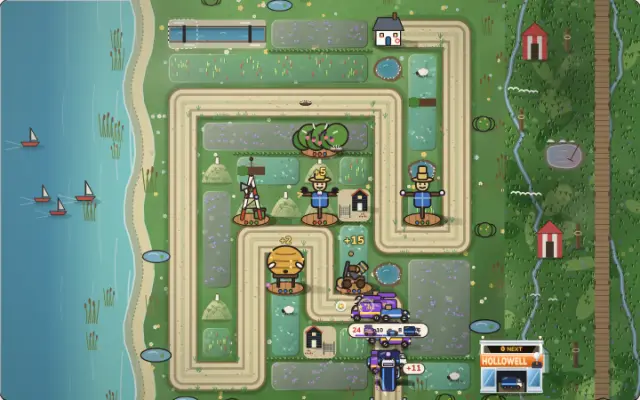
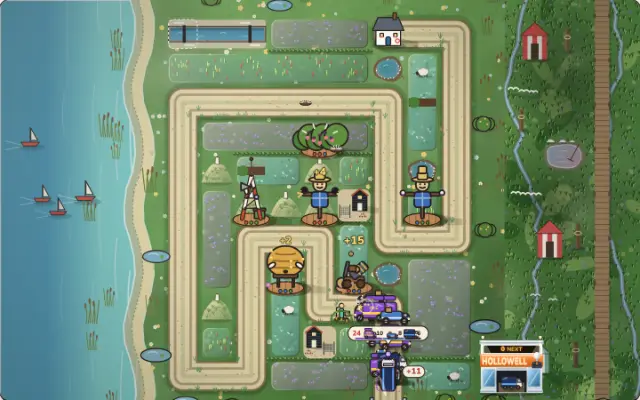
Hedgerow doorstep: after a clean round two neighbours cart a parcel up the lane in a handcart, and the win's harvest sweeps the step (parcels skid off under a gust of straw); in 3D the returned parcel slides off the pile up the path and the swept ones tumble away inside the same instanced mesh; the 
Claude-Session: https://claude.ai/code/session_01SimvMNGEGa9FBQ9KLT5s3B

Changed region(s): [[0.5, 0.72, 0.6875, 0.96], [0.5, 0.42, 0.5312, 0.45]]

diff --git a/games/hedgerow/src/render.ts b/games/hedgerow/src/render.ts
@@ -4,7 +4,7 @@
 // Projectiles and particles are fed from the engine's event list: the engine is hitscan, so the flight
 // times here are short and only for show.
 
-import { drawDoorstep, drawSaleBoard, type DoorstepView } from "./doorstepart";
+import { CART_SECONDS, drawCart, drawDoorstep, drawSaleBoard, drawSweep, SWEEP_SECONDS, type DoorstepView } from "./doorstepart";
 import { P, PROPERTIES, RUNGS, crackStage } from "./fleet";
 import { PLOT_STITCH, PLOT_STITCH_UNDER } from "./plotlook";
 import { kitFor } from "./fieldkit";
@@ -21,6 +21,8 @@ import {
   isRevealed,
   enemyPoint,
   headingAt,
+  pointAt,
+  pathLength,
   betweenRounds,
   waveSpawns,
   postMarker,
@@ -264,6 +266,12 @@ export class Renderer {
   doorstep: DoorstepView | null = null;
   /** Plan item 480: parcels in the air, from where each leak got through (cells), and their age in seconds. */
   private tossed: Array<{ x: number; y: number; age: number }> = [];
+  /** Plan item 480: handcarts heading up the lane with a parcel (their age in seconds), the returns seen so far, and
+   *  the win's sweep (the parcels it clears and its age). */
+  private carts: number[] = [];
+  private cartsSeen = 0;
+  private sweep: { n: number; age: number } | null = null;
+  private stepWas: DoorstepView | null = null;
   /** Plan item 59: the harvest's Cath walks the beds over the field, so the field's own Cath steps out. */
   harvesting = false;
   /** Plan item 143: the people and animals working the farm. */
@@ -707,6 +715,24 @@ export class Renderer {
     this.parts.push({ x, y, vx: 0, vy: -0.9, g: 0, age: 0, life: 1.1, size: 0.3, color, shape: "text", rot: 0, vr: 0, text, big });
   }
 
+  /** Plan item 480: the doorstep's animations running now (handcarts up the lane, the win's sweep), for tests. */
+  stepAnims(): { carts: number; sweep: boolean } {
+    return { carts: this.carts.length, sweep: !!this.sweep };
+  }
+
+  /** Plan item 480: starts a handcart for each new return and the sweep when the win clears the step. */
+  private watchStep(d: DoorstepView | null): void {
+    const returned = d?.returned ?? 0;
+    if (returned < this.cartsSeen) this.cartsSeen = returned;
+    while (this.cartsSeen < returned) {
+      this.cartsSeen++;
+      if (!this.reducedMotion) this.carts.push(0);
+    }
+    const was = this.stepWas;
+    if (d?.won && was && was.shown > 0 && d.shown === 0 && !this.reducedMotion) this.sweep = { n: was.shown, age: 0 };
+    this.stepWas = d ? { ...d } : null;
+  }
+
   private kick(amount: number): void {
     if (!this.reducedMotion) this.shake = Math.max(this.shake, amount);
   }
@@ -898,20 +924,43 @@ export class Renderer {
     // Sprites in depth order.
     const items: Array<{ y: number; draw: () => void }> = [];
     const end = level.path[level.path.length - 1]!;
+    const side = end[0] >= level.cols - 2 ? -1 : 1;
     items.push({
       y: end[1] + 0.84,
       draw: () => {
         drawFarmhouse(ctx, X(end[0] + 0.5), Y(end[1] + 0.5), s, t, game.goodwill / game.maxGoodwill, kitFor(level).house);
         // Plan item 480: Hollowell's parcels on the step, the newest still arcing in over 400 ms.
         const d = this.doorstep;
+        this.watchStep(d);
         for (const p of this.tossed) p.age += dt;
         this.tossed = this.tossed.filter((p) => p.age < 0.4).slice(-Math.max(0, d?.shown ?? 0));
         if (d && (d.shown || d.card)) {
           const flying = this.tossed.map((p) => ({ from: [X(p.x), Y(p.y)] as [number, number], p: p.age / 0.4 }));
-          drawDoorstep(ctx, d, X(end[0] + 0.5), Y(end[1] + 0.5), s, flying, end[0] >= level.cols - 2 ? -1 : 1);
+          drawDoorstep(ctx, d, X(end[0] + 0.5), Y(end[1] + 0.5), s, flying, side);
+        }
+        // Plan item 480: the win's harvest sweeps the step clear.
+        if (this.sweep) {
+          this.sweep.age += dt;
+          if (this.sweep.age >= SWEEP_SECONDS) this.sweep = null;
+          else drawSweep(ctx, this.sweep.n, X(end[0] + 0.5), Y(end[1] + 0.5), s, this.sweep.age / SWEEP_SECONDS, side);
         }
       },
     });
+    // Plan item 480: after a clean round two neighbours cart a parcel off the step and up the lane toward the depot.
+    if (this.carts.length) {
+      for (let k = 0; k < this.carts.length; k++) this.carts[k]! += dt;
+      this.carts = this.carts.filter((a) => a < CART_SECONDS);
+      const len = pathLength(level.path);
+      for (const age of this.carts) {
+        const p = age / CART_SECONDS;
+        const back = Math.min(len, 0.35 + p * 2.6);
+        const at = pointAt(level.path, len - back);
+        const ahead = pointAt(level.path, len - back - 0.3);
+        const dir = ahead.x < at.x - 0.01 ? -1 : ahead.x > at.x + 0.01 ? 1 : side;
+        const alpha = Math.min(1, age / 0.25) * Math.min(1, (CART_SECONDS - age) / 0.6);
+        items.push({ y: at.y + 0.3, draw: () => drawCart(ctx, X(at.x), Y(at.y + 0.3), s, age, dir, alpha) });
+      }
+    }
     if (this.doorstep?.sale) {
       const gate = level.path[0]!;
       items.push({ y: gate[1] + 0.5, draw: () => drawSaleBoard(ctx, X(gate[0] + 0.5), Y(gate[1] + 0.5), s) });

diff --git a/games/hedgerow/src/doorstepart.ts b/games/hedgerow/src/doorstepart.ts
@@ -63,6 +63,125 @@ export interface DoorstepView {
   extra: number;
   card: boolean;
   sale: boolean;
+  /** Parcels the neighbours have carted back this level: each rise sends a handcart up the lane. */
+  returned?: number;
+  /** The level is won (its harvest sweeps the step). */
+  won?: boolean;
+}
+
+/** How long the neighbours' handcart takes up the lane, and the win's sweep (seconds). */
+export const CART_SECONDS = 3.2;
+export const SWEEP_SECONDS = 0.9;
+
+const SMOCKS = ["#5f7f4a", "#b5763a"];
+
+/** One neighbour, walking: a smock, a cap, a round face, legs scissoring with `step`. Feet at (x, y). */
+function drawNeighbour(ctx: C, x: number, y: number, s: number, step: number, smock: string, lean: number): void {
+  const h = s * 0.42;
+  ctx.save();
+  ctx.translate(x, y);
+  ctx.rotate(lean);
+  ctx.strokeStyle = INK;
+  ctx.lineWidth = Math.max(1, s * 0.014);
+  ctx.lineCap = "round";
+  const swing = Math.sin(step) * s * 0.05;
+  // trousers: two thick legs scissoring, outlined, with boots
+  for (const sw of [-swing, swing]) {
+    ctx.lineWidth = Math.max(2, s * 0.05);
+    ctx.strokeStyle = INK;
+    ctx.beginPath();
+    ctx.moveTo(sw * 0.2, -h * 0.4);
+    ctx.lineTo(sw, -s * 0.012);
+    ctx.stroke();
+    ctx.lineWidth = Math.max(1, s * 0.032);
+    ctx.strokeStyle = "#4a5266";
+    ctx.stroke();
+  }
+  ctx.strokeStyle = INK;
+  ctx.lineWidth = Math.max(1, s * 0.014);
+  ctx.fillStyle = smock;
+  ctx.beginPath();
+  ctx.moveTo(-s * 0.06, -h * 0.35);
+  ctx.lineTo(s * 0.06, -h * 0.35);
+  ctx.lineTo(s * 0.045, -h * 0.78);
+  ctx.lineTo(-s * 0.045, -h * 0.78);
+  ctx.closePath();
+  ctx.fill();
+  ctx.stroke();
+  ctx.fillStyle = "#e9c3a0";
+  ctx.beginPath();
+  ctx.arc(0, -h * 0.9, s * 0.045, 0, Math.PI * 2);
+  ctx.fill();
+  ctx.stroke();
+  ctx.fillStyle = INK;
+  ctx.fillRect(-s * 0.05, -h * 0.98 - s * 0.03, s * 0.1, s * 0.025);
+  ctx.restore();
+}
+
+/**
+ * The neighbours carting one of Hollowell's parcels back: a wooden handcart with the parcel aboard, one neighbour at
+ * the shafts, one pushing behind. (x, y) is the cart's foot, `dir` the way it faces (1 right, -1 left), `t` seconds.
+ */
+export function drawCart(ctx: C, x: number, y: number, s0: number, t: number, dir: 1 | -1, alpha = 1): void {
+  // drawn a size up from the step's parcels, so the neighbours stand as tall as the farm's own folk
+  const s = s0 * 1.6;
+  ctx.save();
+  ctx.globalAlpha *= alpha;
+  const step = t * 9;
+  drawNeighbour(ctx, x + dir * s * 0.32, y, s, step, SMOCKS[0]!, dir * 0.12);
+  drawNeighbour(ctx, x - dir * s * 0.3, y, s, step + Math.PI, SMOCKS[1]!, dir * 0.18);
+  ctx.strokeStyle = INK;
+  ctx.lineWidth = Math.max(1, s * 0.014);
+  // the shafts, the bed and a wheel
+  ctx.beginPath();
+  ctx.moveTo(x + dir * s * 0.12, y - s * 0.11);
+  ctx.lineTo(x + dir * s * 0.3, y - s * 0.17);
+  ctx.stroke();
+  ctx.fillStyle = "#8a5a32";
+  ctx.fillRect(x - s * 0.15, y - s * 0.14, s * 0.3, s * 0.05);
+  ctx.strokeRect(x - s * 0.15, y - s * 0.14, s * 0.3, s * 0.05);
+  ctx.fillStyle = "#6b4a2b";
+  ctx.beginPath();
+  ctx.arc(x, y - s * 0.055, s * 0.055, 0, Math.PI * 2);
+  ctx.fill();
+  ctx.stroke();
+  ctx.beginPath();
+  const a = t * 6 * dir;
+  ctx.moveTo(x + Math.cos(a) * s * 0.05, y - s * 0.055 + Math.sin(a) * s * 0.05);
+  ctx.lineTo(x - Math.cos(a) * s * 0.05, y - s * 0.055 - Math.sin(a) * s * 0.05);
+  ctx.stroke();
+  drawParcel(ctx, x, y - s * 0.135, s0 * 1.05, dir * -0.05);
+  ctx.restore();
+}
+
+/**
+ * The win's harvest sweeping the step: the parcels that were there skid off away from the door, tumble and fade,
+ * chased by a gust of straw. `p` runs 0 to 1 over SWEEP_SECONDS.
+ */
+export function drawSweep(ctx: C, n: number, x: number, y: number, s: number, p: number, side: 1 | -1 = 1): void {
+  const base = y + s * 0.34;
+  const e = 1 - (1 - p) * (1 - p);
+  ctx.save();
+  for (let k = 0; k < Math.min(n, DOORSTEP_SHOWN); k++) {
+    const [px, py] = parcelSlot(k, x, base, s, side);
+    const kick = 0.6 + ((k * 53) % 5) * 0.18;
+    ctx.globalAlpha = Math.max(0, 1 - p * 1.1);
+    const hop = Math.sin(Math.PI * Math.min(1, p * 1.6)) * s * 0.18 * kick;
+    drawParcel(ctx, px + side * e * s * 1.1 * kick, py + e * s * 0.12 - hop, s, side * e * 3 * kick);
+  }
+  // the gust: straw strokes sweeping out from the door
+  ctx.globalAlpha = Math.max(0, Math.sin(Math.PI * p)) * 0.9;
+  ctx.strokeStyle = "#e3c46a";
+  ctx.lineWidth = Math.max(1, s * 0.02);
+  ctx.lineCap = "round";
+  for (let k = 0; k < 7; k++) {
+    const r = s * (0.25 + k * 0.1) + e * s * 0.5;
+    const a0 = -0.5 + k * 0.17;
+    ctx.beginPath();
+    ctx.arc(x, base, r, side === 1 ? a0 : Math.PI - a0 - 0.5, side === 1 ? a0 + 0.5 : Math.PI - a0);
+    ctx.stroke();
+  }
+  ctx.restore();
 }
 
 /** The pile and the card by the farmhouse at (x, y) (the house's cell centre), at cell size s. */

diff --git a/games/hedgerow/src/render3d/doorstep.ts b/games/hedgerow/src/render3d/doorstep.ts
@@ -14,6 +14,9 @@ const PH = 0.105;
 const PD = 0.12;
 /** How long a parcel's arc from the lane takes (s). */
 const ARC_S = 0.4;
+/** A parcel carted back slides off the step and up the lane over this long (s); the win's sweep takes this long. */
+const CART_S = 1.4;
+const SWEEP_S = 0.9;
 
 /** The pile's slots in the farmhouse's frame: four on the ground, three on them, one on top, right of the door
  *  (`side` -1 piles them left, for a house at the field's right edge). The door is at x 0, z 0.285. */
@@ -138,6 +141,8 @@ export class Doorstep3D {
   private shown = 0;
   /** The newest parcel's arc: seconds since it was thrown (ARC_S or more: landed). */
   private arc = ARC_S;
+  /** Parcels leaving the step (a clean round's cart-back or the win's sweep): the pile they leave from, its age (s). */
+  private leaving: { from: number; age: number; sweep: boolean } | null = null;
   private side: 1 | -1 = 1;
   private readonly m = new THREE.Matrix4();
   private readonly q = new THREE.Quaternion();
@@ -148,7 +153,8 @@ export class Doorstep3D {
     const mat = new THREE.MeshStandardMaterial({ map: parcelTexture(), roughness: 0.22, metalness: 0 });
     this.parcels = new THREE.InstancedMesh(new THREE.BoxGeometry(PW, PH, PD), mat, DOORSTEP_SHOWN);
     this.parcels.count = 0;
-    this.parcels.castShadow = true;
+    // No shadows: the pile and the board casting doubled their cost on a phone (+7 draw calls, measured with scripts/hedgerow-drawcalls.mjs PARCELS=9), over the item's +3; the pile sits in the house's own shadow.
+    this.parcels.castShadow = false;
     this.parcels.frustumCulled = false;
     const cv = document.createElement("canvas");
     cv.width = 128;
@@ -161,7 +167,7 @@ export class Doorstep3D {
     this.card.rotation.z = -0.08;
     this.card.visible = false;
     this.board = new THREE.Mesh(boardGeometry(), new THREE.MeshStandardMaterial({ map: boardTexture(), roughness: 0.6 }));
-    this.board.castShadow = true;
+    this.board.castShadow = false;
     this.board.visible = false;
   }
 
@@ -183,7 +189,13 @@ export class Doorstep3D {
     if (shown !== this.shown) {
       // A new parcel arcs in; a cart-back or a sweep just takes them away.
       this.arc = shown > this.shown && this.shown >= 0 && !this.reducedMotion ? 0 : ARC_S;
+      // Fewer: the neighbours cart the top one up the lane, or the win's harvest sweeps the lot off the step.
+      this.leaving = shown < this.shown && this.shown > 0 && !this.reducedMotion ? { from: this.shown, age: 0, sweep: !!view?.won } : null;
       this.shown = shown;
+      this.layOut(1);
+    } else if (this.leaving) {
+      this.leaving.age += dt;
+      if (this.leaving.age >= (this.leaving.sweep ? SWEEP_S : CART_S)) this.leaving = null;
       this.layOut(1);
     } else if (this.arc < ARC_S) {
       this.arc = Math.min(ARC_S, this.arc + dt);
@@ -203,11 +215,26 @@ export class Doorstep3D {
 
   /** Places the pile; the newest parcel is `p` (0-1) along its arc from the lane in front of the door. */
   private layOut(p: number): void {
-    this.parcels.count = this.shown;
-    for (let k = 0; k < this.shown; k++) {
+    const go = this.leaving;
+    this.parcels.count = go ? Math.max(this.shown, go.from) : this.shown;
+    for (let k = 0; k < this.parcels.count; k++) {
       const to = parcelSlot3d(k, this.side);
       let tilt = ((k * 37) % 7) * 0.05 - 0.15;
-      if (k === this.shown - 1 && p < 1) {
+      this.s.setScalar(1);
+      if (go && k >= this.shown) {
+        const q = Math.min(1, go.age / (go.sweep ? SWEEP_S : CART_S));
+        const e = 1 - (1 - q) * (1 - q);
+        if (go.sweep) {
+          // skidding off away from the door, hopping, tumbling, shrinking away
+          const kick = 0.7 + ((k * 53) % 5) * 0.15;
+          this.p.set(to.x + this.side * e * 0.9 * kick, to.y + Math.sin(Math.PI * Math.min(1, q * 1.6)) * 0.18 * kick, to.z + e * 0.25);
+          tilt += this.side * e * 3 * kick;
+        } else {
+          // lifted off the pile, then out along the path in front of the door and away
+          this.p.set(to.x * (1 - e), to.y + Math.sin(Math.PI * Math.min(1, q * 2)) * 0.12, to.z + e * 1.4);
+        }
+        this.s.setScalar(Math.max(0.001, 1 - q * q));
+      } else if (k === this.shown - 1 && p < 1) {
         // From the lane, about a cell out in front of the door, over a 0.35-high arc.
         const e = 1 - (1 - p) * (1 - p);
         this.p.set(to.x * e, to.y + (1 - e) * 0.25 + Math.sin(p * Math.PI) * 0.35, to.z + (1 - e) * 0.6);
@@ -217,6 +244,7 @@ export class Doorstep3D {
       this.m.compose(this.p, this.q, this.s);
       this.parcels.setMatrixAt(k, this.m);
     }
+    this.s.setScalar(1);
     this.parcels.instanceMatrix.needsUpdate = true;
   }
 

diff --git a/e2e-site/hedgerow-doorstep.spec.ts b/e2e-site/hedgerow-doorstep.spec.ts
@@ -34,3 +34,31 @@ test('leaks pile parcels on the farmhouse step; the sale board goes up under a q
   })
   await expect(stage).toHaveAttribute('data-saleboard', '')
 })
+
+// Plan item 480: a clean round's return sends two neighbours up the lane with a handcart; the win sweeps the step;
+// neither plays under reduced motion (the parcel simply goes).
+type HA = { game(): G; leakDoorstep(n: number): number; cartDoorstep(): number; doorstepAnims(): { carts: number; sweep: boolean } | null }
+for (const reduce of [false, true]) {
+  test(`the neighbours cart a parcel back and the win sweeps the step${reduce ? ' (reduced motion: no animation)' : ''}`, async ({ page }) => {
+    test.setTimeout(120_000)
+    if (reduce) await page.emulateMedia({ reducedMotion: 'reduce' })
+    const stars = Object.fromEntries(Array.from({ length: 20 }, (_, i) => [String(i + 1), 3]))
+    const tips = { build: true, hero: true, early: true, pie: true, spec: true, neighbours: true, rally: true }
+    await page.goto('/hedgerow/?sandbox=1&2d')
+    await page.evaluate(([s, t]) => localStorage.setItem('hedgerow:v1', JSON.stringify({ version: 3, stars: s, seenBefore: { 3: true }, tips: t })), [stars, tips])
+    await page.goto('/hedgerow/?sandbox=1&2d&level=3')
+    await page.waitForFunction(() => !!(window as unknown as { hedgerow?: HA }).hedgerow?.game(), null, { timeout: 60_000 })
+    const stage = page.locator('#stage')
+    await page.evaluate(() => (window as unknown as { hedgerow: HA }).hedgerow.leakDoorstep(4))
+    await expect(stage).toHaveAttribute('data-doorstep', '4')
+    await page.evaluate(() => (window as unknown as { hedgerow: HA }).hedgerow.cartDoorstep())
+    await expect(stage).toHaveAttribute('data-doorstep', '3')
+    const anims = () => page.evaluate(() => (window as unknown as { hedgerow: HA }).hedgerow.doorstepAnims())
+    if (reduce) expect((await anims())!.carts).toBe(0)
+    else await expect.poll(async () => (await anims())!.carts, { timeout: 5_000 }).toBe(1)
+    await page.evaluate(() => { (window as unknown as { hedgerow: HA }).hedgerow.game().phase = 'won' })
+    await expect(stage).toHaveAttribute('data-doorstep', '0')
+    if (reduce) expect((await anims())!.sweep).toBe(false)
+    else await expect.poll(async () => (await anims())!.sweep, { timeout: 5_000 }).toBe(true)
+  })
+}

diff --git a/games/hedgerow/src/main.ts b/games/hedgerow/src/main.ts
@@ -443,7 +443,7 @@ function syncDoorstep(g: Game): void {
   const n = String(doorstep.parcels);
   if (ui.stage.dataset.doorstep !== n) ui.stage.dataset.doorstep = n;
   const sale = saleBoard(g.goodwill, g.maxGoodwill);
-  if (renderer && "doorstep" in renderer) (renderer as { doorstep: unknown }).doorstep = { ...doorstepShown(doorstep), card: doorstep.card, sale };
+  if (renderer && "doorstep" in renderer) (renderer as { doorstep: unknown }).doorstep = { ...doorstepShown(doorstep), card: doorstep.card, sale, returned: doorstep.returned, won: g.phase === "won" };
   if (sale !== ("saleboard" in ui.stage.dataset)) {
     if (sale) ui.stage.dataset.saleboard = "";
     else delete ui.stage.dataset.saleboard;
@@ -822,6 +822,14 @@ if (SANDBOX)
     // Plan item 480: lay n parcels on the farmhouse step at once (shots and tests), as n leaks would.
     leakDoorstep: (n: number) => {
       for (let k = 0; k < n; k++) doorstepLeak(doorstep);
+      return doorstep.parcels;
+    },
+    // Plan item 480: the 2D doorstep's animations running now (null in 3D).
+    doorstepAnims: () => (renderer as { stepAnims?: () => unknown } | null)?.stepAnims?.() ?? null,
+    // Plan item 480: a clean round's return (the neighbours cart one parcel up the lane), as a cleared round would.
+    cartDoorstep: () => {
+      doorstep.leakedThisRound = false;
+      doorstepCleared(doorstep);
       return doorstep.parcels;
     },
     // Plan item 132: the 3D gate signs' boards (canvas px, like gateQueue); empty in 2D.

diff --git a/docs/plan/two-week-plan.md b/docs/plan/two-week-plan.md
@@ -4480,7 +4480,7 @@ Progress (lane B, 2026-11-17 18:50, slice 1): the last round is called as a show
 - **Accept:** `#stage[data-showdown]` within 150 ms of the last round's Go (sandbox e2e via `sendWave`, P and D, 2D and 3D); the slow window 600-800 ms by frame timestamps, `.harvest` within 400 ms after; a unit test that a level's engine tick count is unchanged; the reduced-motion path tested; level tests pass; shots of l21 and l34 at P and D.
 - **Size:** 2
 
-## 480. [ ] Hedgerow: Goodwill on the farmhouse doorstep *(lane A, in progress)*
+## 480. [x] Hedgerow: Goodwill on the farmhouse doorstep *(done 2026-11-17 22:15 lane A: slice 4 adds the neighbours' handcart up the lane and the win's sweep in 2D, the returned parcel sliding off and the swept pile skidding away in 3D's instanced pile; no shadows on the pile or board (with them +7 calls at P); `hedgerow-drawcalls` PARCELS=9 on level 3: +2 at P, +3 at D; e2e cart/sweep and reduced motion at P and D)*
 
 Progress (lane A, 2026-11-17 19:35): slice 1 (1ed564a2): `doorstep.ts` (pure: a parcel per leak, a clean round carts one back with Cath's line, the win sweeps the step, `saleBoard` under 25%); `#stage[data-doorstep=N]` and `[data-saleboard]`; `tests/hedgerow-doorstep.test.ts` (incl. a real undefended game: parcels = leaks - returns), `e2e-site/hedgerow-doorstep.spec.ts` (P, D). Slice 3 (lane A 20:25, e2e93425): 3D in `render3d/doorstep.ts`: the pile in the farmhouse's own frame on its camera side (1.8x the first try, which hid behind the house), the arc, the card with '+N', the ACQUIRED board planted on the field's first corner (the gate often stands past the frame) and leaning to a phone's steep lens; three meshes (instanced pile, card, board and post as one geometry), none drawn with an empty step; sandbox `leakDoorstep(n)`; shots `scripts/hedgerow-480-shots.mjs` (scratchpad door3d, level 3, 0/3/9 parcels and the board, 2D and 3D, P and D). Left: the neighbours' cart animation, the win's sweep animation, a measured `hedgerow-drawcalls` run with 9 parcels. Slice 2 (ed05e303): 2D in `doorstepart.ts`: glossy taped parcels piled 4-3-1 by the door ('+N' past 8; to the door's left when the house is at the field's right edge, else it ran off the phone), a 400 ms arc from the leak (none under reduced motion), the door card, the ACQUIRED board at the gate; key art re-shot. Shots scratchpad door-{P,D}-{0,3,9,sale}. Left: the neighbours carting a parcel back (animation) and the win's sweep, 3D (`render3d/doorstep.ts`, instanced, ≤3 draw calls, hedgerow-drawcalls), 3D shots.
 - **Why:** a leak costs Goodwill and the field forgets it after a 1 s flash and a floating '-N' (`render.ts`, `render3d/index.ts`); the farmhouse (2D D 575-635 x 680-740, 3D D 545-630 x 495-660) never shows the damage (VISION 3, 6). Checked: 59, 135, 143, 162, 250, 191 (all kept); in its own `doorstep.ts` and `render3d/doorstep.ts`, outside 469's files.
